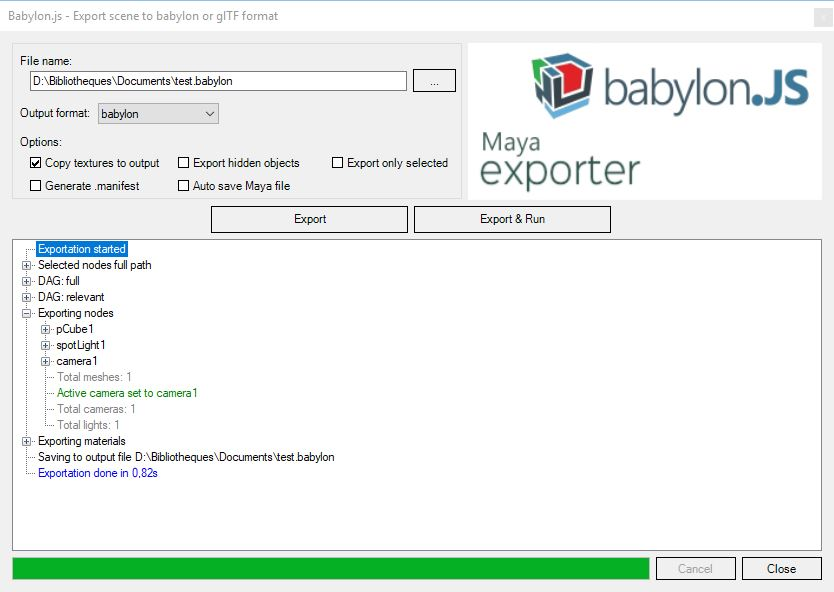
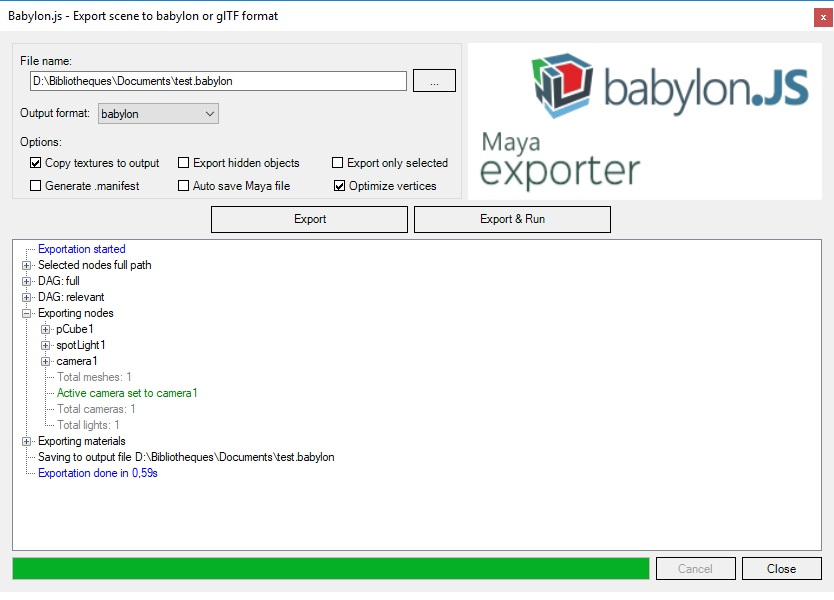
Add 'Optimize vertices' option in exporter window Remove warning on Arnold Opaque attribute and multimaterials

diff --git a/content/resources/Exporter/Maya_to_glTF.md b/content/resources/Exporter/Maya_to_glTF.md
@@ -154,13 +154,7 @@ In order to make material opacity relevant, you must specify meshes to not be _O
 
 This Arnold attribute must be unchecked for each mesh you wish material opacity to be taken into account.
 
-Babylon and glTF formats don't have such Mesh attribute. When facing a case where a single transparent material is assigned to both opaque and non opaque meshes, the exporter get round this missing by duplicating the material. One is assigned to opaque meshes, and all its opacity attributes are erased. The other is assigned to non opaque meshes, and all its opacity attributes remain untouched.
-
-However, note that this missing is not overcomed when the material is part of a multi material. When the material is part of a multi material assigned to both opaque and non opaque meshes, all meshes with a multi material will be considered as non opaque.
-
-![glTF multimaterials and Arnold opaque attribute](/img/exporters/Maya_to_glTF/MultiMat_ArnoldOpaque.png)
-
-This image is rendered using exported results and babylon engine. Left box and left sphere are set as _Opaque_, others are not. Red material has a very low _Opacity_, green one is default. Boxes have the same multimaterial (red + green), spheres have the same single material (red). Note that left box multi material has not been duplicated and is considered non opaque.
+Babylon and glTF formats don't have such Mesh attribute. When facing a case where a transparent material is assigned to both opaque and non opaque meshes, the exporter get round this missing by duplicating the material. One is assigned to opaque meshes, and all its opacity attributes are erased. The other is assigned to non opaque meshes, and all its opacity attributes remain untouched.
 
 ### Textures split
 

diff --git a/content/resources/Exporter/Maya.md b/content/resources/Exporter/Maya.md
@@ -83,6 +83,8 @@ As babylon.js script is retrieved directly from the official website directly, y
 
 The log panel indicates in real time which mesh has been exported, which material, and if there are any problems with these objects.
 
+Option _Optimize vertices_: The Babylon exporter will try to optimize the number of vertices to export instead of exporting everything naively (if a vertex is part of two faces, this vertex won’t be exported twice with this option checked).
+
 # What you should know
 
 ## Camera
